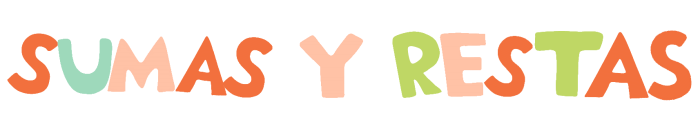
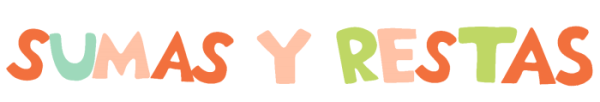
css juego sumas

diff --git a/src/components/Juegos/Sumar/Sumar.js b/src/components/Juegos/Sumar/Sumar.js
@@ -138,10 +138,16 @@ function Sumar() {
           </div>
         ) : data?.suma?.length > aux ? (
           <div>
-            <div className="puntuacion text-center flex my-4 justify-center">
-              <h3 className="mr-10 pt-4"> Puntos: {puntos} </h3>
+            <div className="flex justify-center">
+              <img src={IMGS["titulo"]} alt="" />
+            </div>
+            <div className="puntuacion text-center flex justify-center">
+              <h4 className="mr-10 pt-4 font-black">
+                {" "}
+                Puntos: <span className="text-yellow-500">{puntos}</span>
+              </h4>
               <div className="flex my-4 justify-center" name="divVidas">
-                <h3 className="mr-3"> Vidas: </h3>
+                <h4 className="mr-3 font-black"> Vidas: </h4>
                 <a className="flex h-12 w-12 mr-5" id="vida1">
                   <img src={IMGS["vidas"]} className="icon" />
                 </a>
@@ -154,9 +160,6 @@ function Sumar() {
               </div>
             </div>
             <div className="w-full text-center mb-10">
-              <div className="m-8 flex justify-center">
-                <img src={IMGS["titulo"]} alt="" />
-              </div>
               <div className="flex justify-center items-center m-10">
                 <div className="">
                   <img src={IMGS[data.suma[aux].img]} alt="" />
@@ -165,7 +168,7 @@ function Sumar() {
                 <div className="flex card p-10 bg-red-400 shadow-2xl">
                   <Tablero
                     id="board"
-                    className="board w-40"
+                    className="board w-20 h-20"
                     state={[aux, setAux]}
                   ></Tablero>
                 </div>

diff --git a/src/components/Juegos/Sumar/operaciones.css b/src/components/Juegos/Sumar/operaciones.css
@@ -3,7 +3,6 @@
   flex-wrap: wrap;
   justify-content: center;
   align-items: center;
-  height: 10rem;
   gap: 2rem;
   margin: 1rem;
 }
